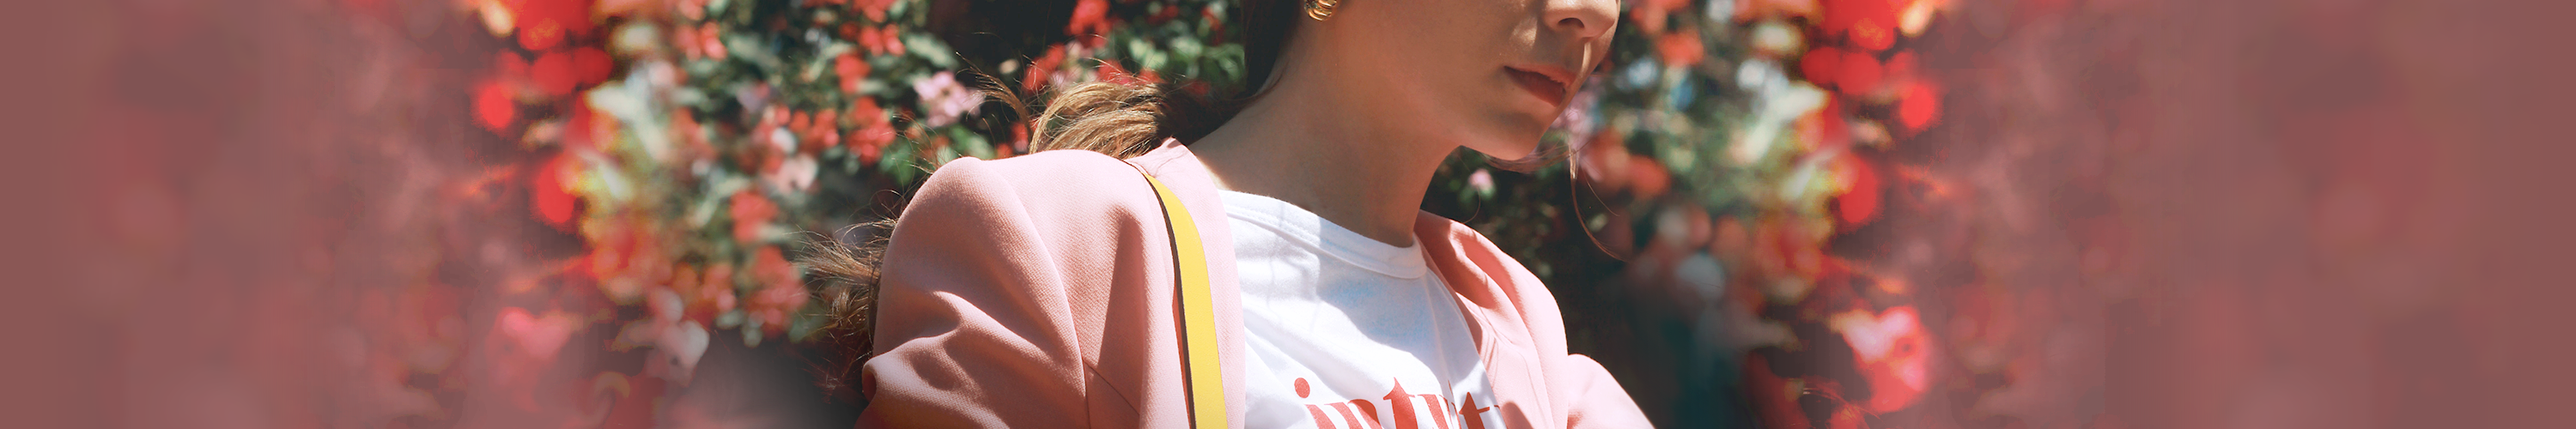
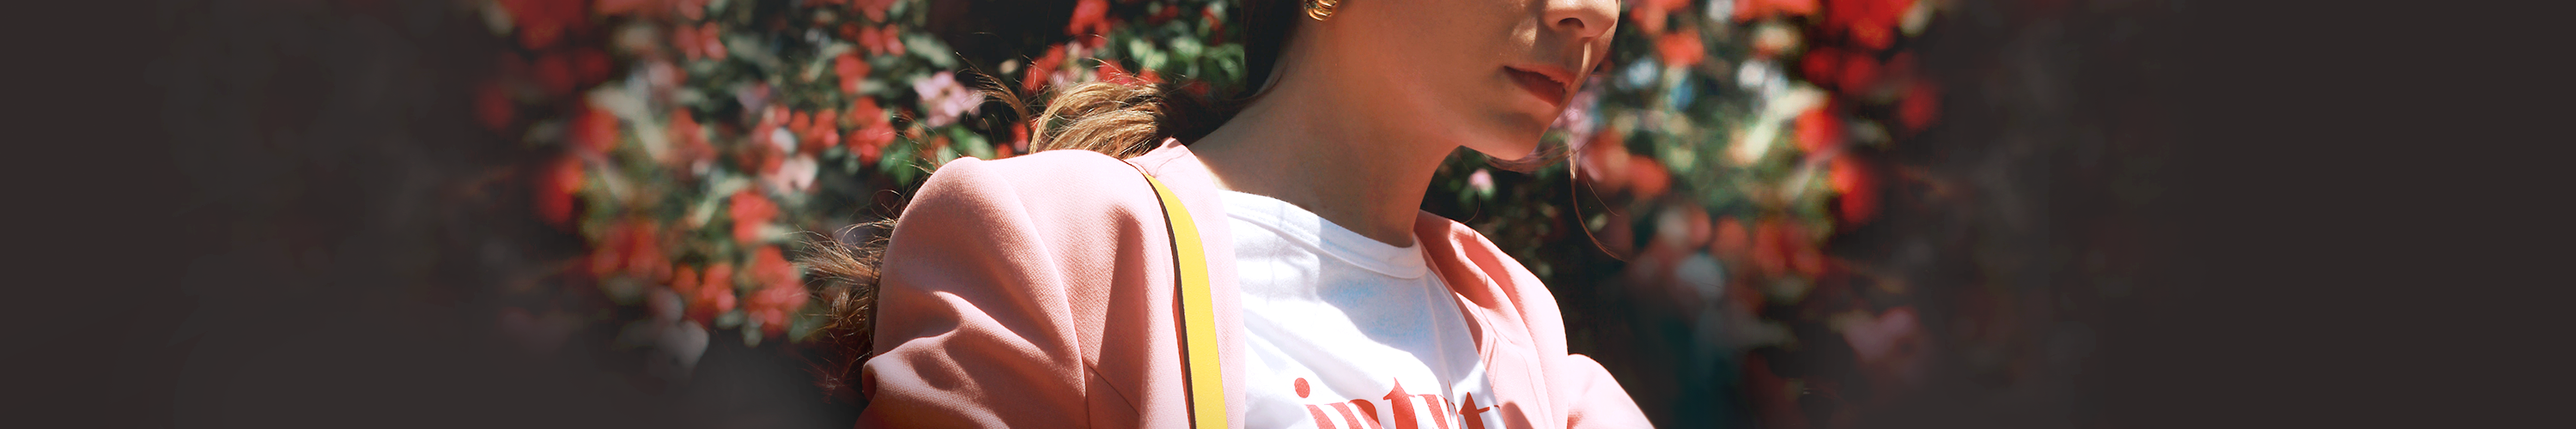
Modify 메인 이미지 변경

diff --git a/src/components/main/About.vue b/src/components/main/About.vue
@@ -47,7 +47,7 @@ export default {
   background-image: url('/static/img/main/img_about_large.png');
   background-repeat: no-repeat;
   background-position: 50% 0;
-  background-color: #8a5755;
+  background-color: #2d2727;
 }
 
 .main-about-detail {
